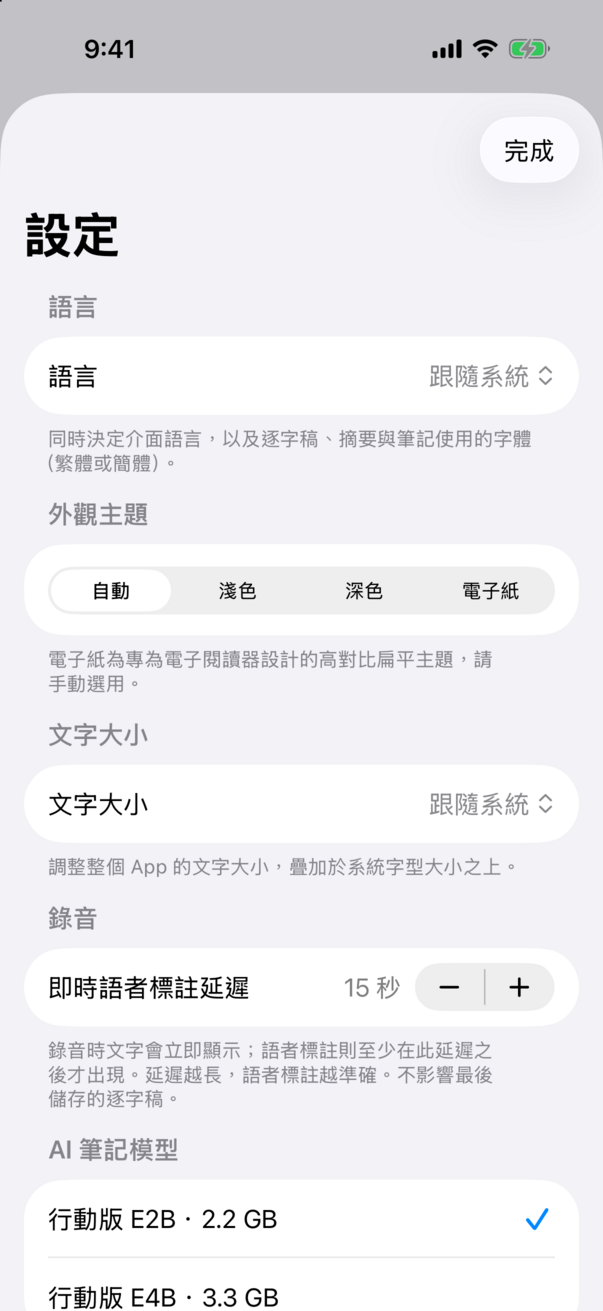
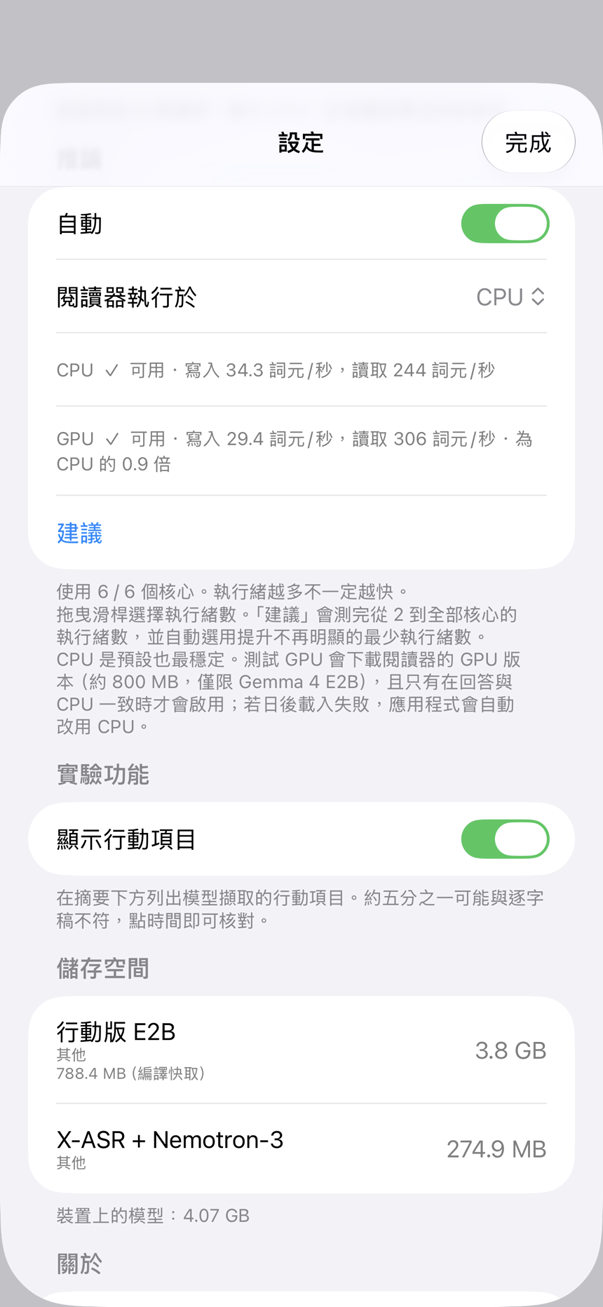
docs: Settings screenshot and 建議 animation for the CPU/GPU reader picker (iPhone 14 Pro Max); iOS now has a GPU option
Claude-Session: https://claude.ai/code/session_01GpbWhp5pfKPJGpjXToixYN

diff --git a/README.md b/README.md
@@ -37,7 +37,7 @@ VoxSum for iOS 是 [Android 版](https://github.com/vieenrose/VoxSum/blob/androi
 - **每句都可核對**：摘要與筆記的時間點一下，就從原話開始播放。
 - **錄音不會遺失**：開始錄音前就排入佇列，App 被終止也保留音訊；處理失敗的項目留在佇列可「重試」。
 - **可編輯、可匯出**：修正文字、改派或合併語者；匯出 VoxSum 場次 `.m4a`（與 Android 互通）、PDF、Markdown、純文字或字幕。
-- **依手機調整**：首次啟動做一秒測試選執行緒數；全程使用 CPU 推論（GPU 將以 Metal 後端另行處理）。
+- **依手機調整**：首次啟動做一秒測試選執行緒數；預設以 CPU 推論。設定裡的「建議」也會測試 GPU（Metal，僅 E2B）：只有回答與 CPU 一致時才可改用 GPU。
 
 ## 使用
 
@@ -53,7 +53,7 @@ VoxSum for iOS 是 [Android 版](https://github.com/vieenrose/VoxSum/blob/androi
 
 **匯入**：首頁 **＋** 可加入「檔案」App 裡的音訊、Podcast，或開啟 VoxSum 場次 `.m4a`；也可從其他 App 分享音訊過來。
 
-**設定**：語言（English、繁體中文、简体中文）、外觀（自動、淺色、深色、電子紙）、文字大小、語者標註延遲（5–30 秒）、AI 筆記模型（E2B，或 RAM 足夠的 iPhone 可選 E4B）、硬體狀態列、推論執行緒（自動或手動）、顯示待辦事項、模型與儲存空間管理、關於。
+**設定**：語言（English、繁體中文、简体中文）、外觀（自動、淺色、深色、電子紙）、文字大小、語者標註延遲（5–30 秒）、AI 筆記模型（E2B，或 RAM 足夠的 iPhone 可選 E4B）、硬體狀態列、推論（執行緒數與閱讀器執行於 CPU 或 GPU）、顯示待辦事項、模型與儲存空間管理、關於。
 
 完整操作說明與介面測試地圖見 [`docs/USER_GUIDE.md`](docs/USER_GUIDE.md)。
 
@@ -66,7 +66,7 @@ VoxSum for iOS 是 [Android 版](https://github.com/vieenrose/VoxSum/blob/androi
 
 ## 與 Android 版的差異
 
-- 只用 CPU 推論；沒有 GPU／NPU 選項（之後以 Metal 後端處理）。
+- GPU 只有 Metal（E2B）；沒有 NPU 選項。
 - 沒有 App 內更新（由 App Store／TestFlight 負責）、沒有 Android 的背景可靠性設定。iOS 以 `BGProcessingTask` 在 App 離開後繼續處理佇列。
 - 暫不提供 YouTube 匯入。
 - 中斷的處理不會跳出詢問：佇列在下次啟動時自動從檢查點接續。
